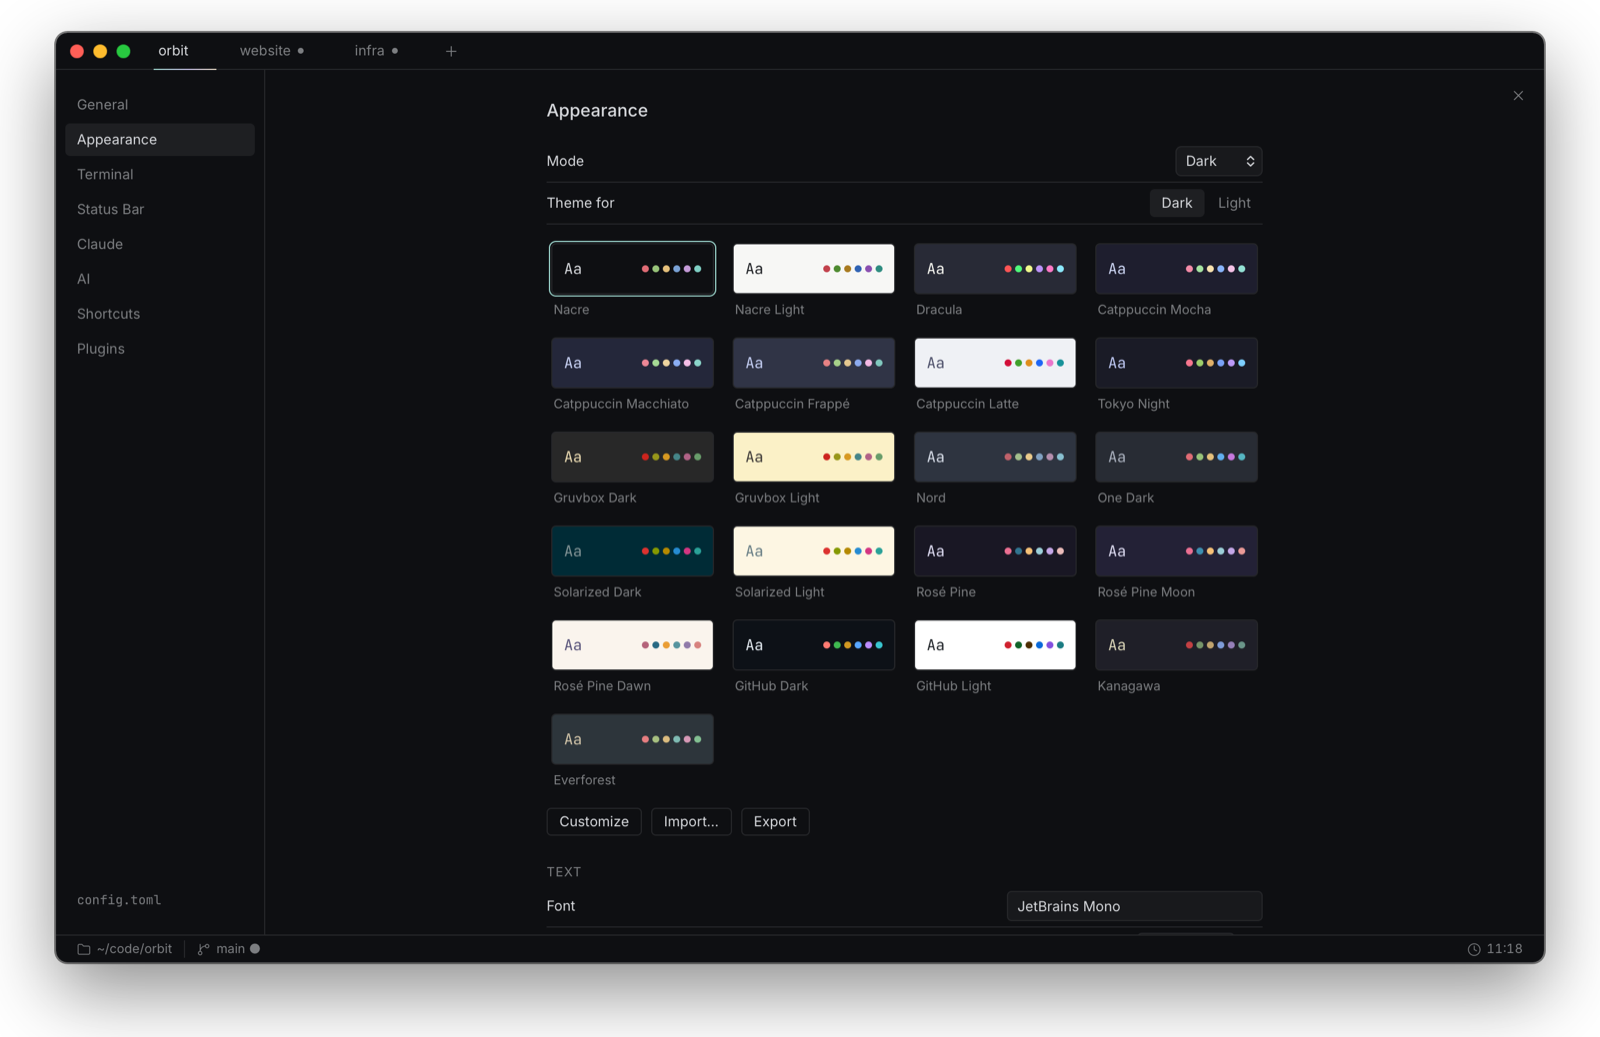
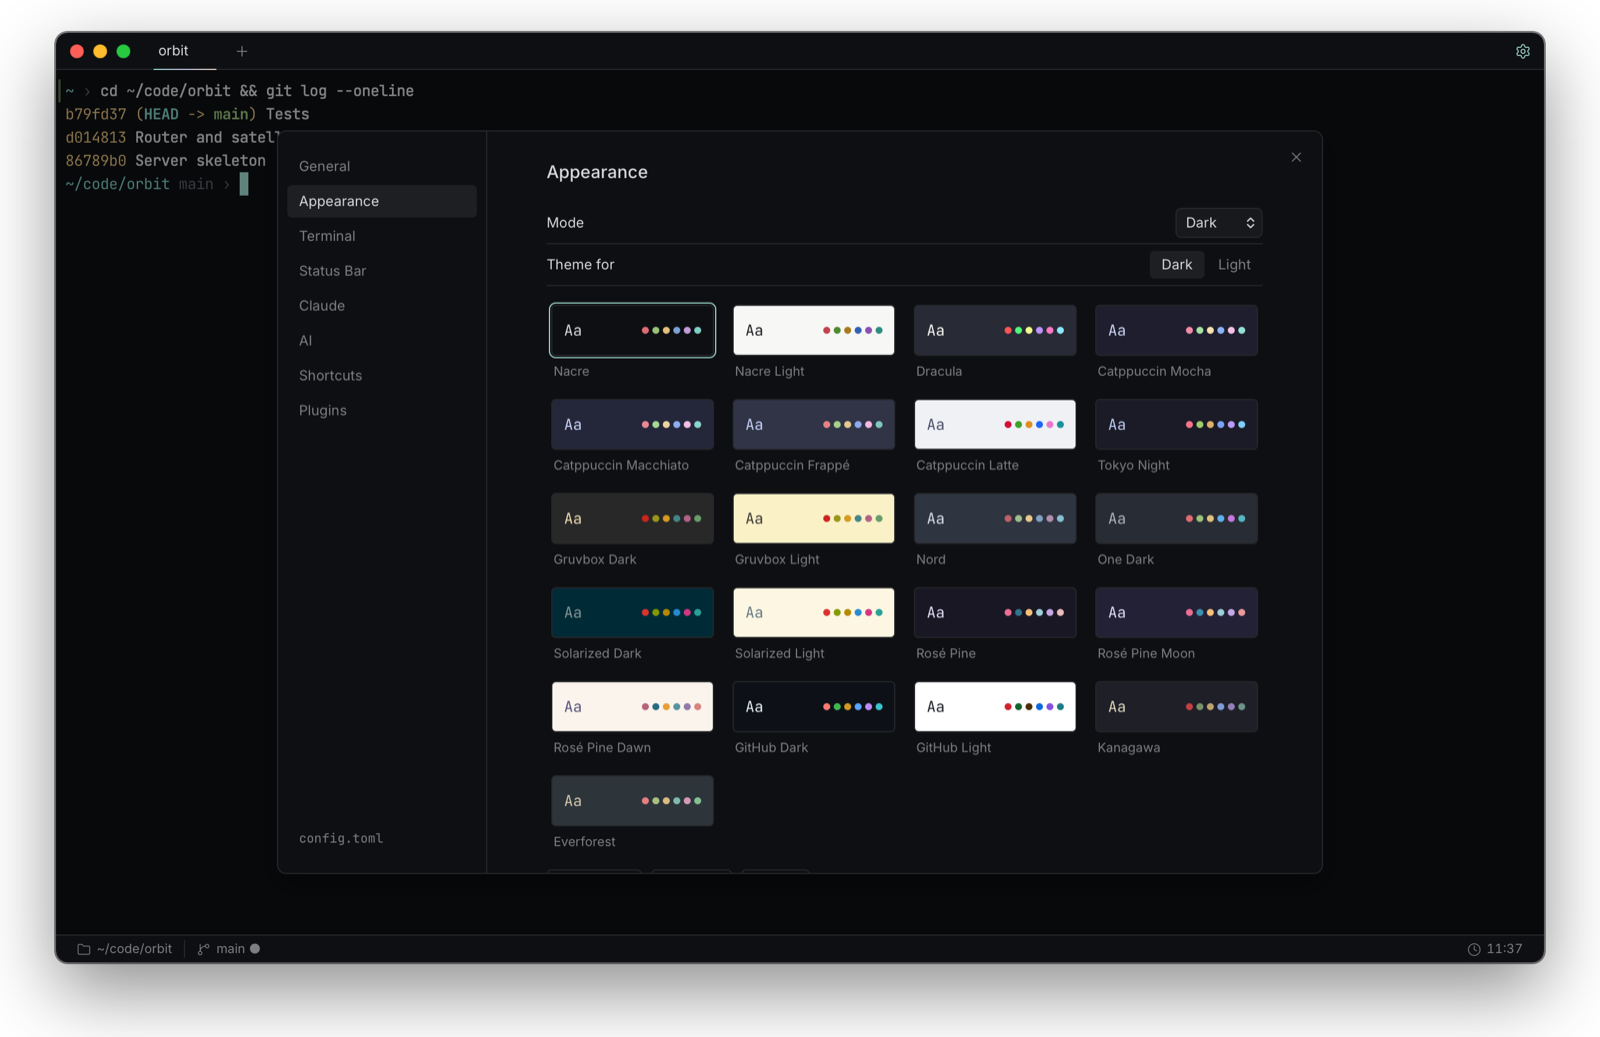
Settings button in the tab bar, settings as a modal

diff --git a/src/settings/Settings.tsx b/src/settings/Settings.tsx
@@ -513,51 +513,56 @@ function PluginsSection() {
   );
 }
 
+export function closeSettings() {
+  useWorkspace.getState().setOverlay(null);
+  const tab = activeTab();
+  if (tab) focusPane(tab.active);
+}
+
 export function Settings() {
   const [section, setSection] = useState<SectionId>("appearance");
   const path = useConfig((s) => s.path);
-  const close = () => {
-    useWorkspace.getState().setOverlay(null);
-    const tab = activeTab();
-    if (tab) focusPane(tab.active);
-  };
+  const close = closeSettings;
   return (
-    <div
-      className="settings"
-      onKeyDown={(e) => {
-        if (e.key === "Escape" && !(e.target instanceof HTMLInputElement)) close();
-      }}
-      tabIndex={-1}
-    >
-      <nav className="settings-nav">
-        {SECTIONS.map((s) => (
-          <button
-            key={s.id}
-            className={section === s.id ? "on" : ""}
-            onClick={() => setSection(s.id)}
-          >
-            {t(s.label)}
+    <div className="scrim settings-scrim" onMouseDown={close}>
+      <div
+        className="settings"
+        onMouseDown={(e) => e.stopPropagation()}
+        onKeyDown={(e) => {
+          if (e.key === "Escape" && !(e.target instanceof HTMLInputElement)) close();
+        }}
+        tabIndex={-1}
+      >
+        <nav className="settings-nav">
+          {SECTIONS.map((s) => (
+            <button
+              key={s.id}
+              className={section === s.id ? "on" : ""}
+              onClick={() => setSection(s.id)}
+            >
+              {t(s.label)}
+            </button>
+          ))}
+          <span className="grow" />
+          <button className="settings-file" onClick={() => path && void openPath(path)}>
+            config.toml
           </button>
-        ))}
-        <span className="grow" />
-        <button className="settings-file" onClick={() => path && void openPath(path)}>
-          config.toml
-        </button>
-      </nav>
-      <div className="settings-body">
-        <button className="icon-btn settings-close" onClick={close}>
-          <X size={14} strokeWidth={1.5} />
-        </button>
-        <div className="settings-page">
-          <h2>{t(SECTIONS.find((s) => s.id === section)!.label)}</h2>
-          {section === "general" && <General />}
-          {section === "appearance" && <Appearance />}
-          {section === "terminal" && <Terminal />}
-          {section === "statusbar" && <StatusBarSection />}
-          {section === "claude" && <ClaudeSection />}
-          {section === "ai" && <AiSection />}
-          {section === "keys" && <KeysSection />}
-          {section === "plugins" && <PluginsSection />}
+        </nav>
+        <div className="settings-body">
+          <button className="icon-btn settings-close" onClick={close}>
+            <X size={14} strokeWidth={1.5} />
+          </button>
+          <div className="settings-page">
+            <h2>{t(SECTIONS.find((s) => s.id === section)!.label)}</h2>
+            {section === "general" && <General />}
+            {section === "appearance" && <Appearance />}
+            {section === "terminal" && <Terminal />}
+            {section === "statusbar" && <StatusBarSection />}
+            {section === "claude" && <ClaudeSection />}
+            {section === "ai" && <AiSection />}
+            {section === "keys" && <KeysSection />}
+            {section === "plugins" && <PluginsSection />}
+          </div>
         </div>
       </div>
     </div>

diff --git a/src/app/TabBar.tsx b/src/app/TabBar.tsx
@@ -1,5 +1,5 @@
 import { useEffect, useRef, useState } from "react";
-import { Pin, Plus, X } from "lucide-react";
+import { Pin, Plus, Settings, X } from "lucide-react";
 import { Menu } from "@tauri-apps/api/menu";
 import { moveTab } from "./moveTab";
 import { type Tab, useWorkspace } from "../store/workspace";
@@ -10,6 +10,7 @@ import { useClaude } from "../claude/store";
 import { allThemes, useConfig } from "../store/config";
 import { tabTitle } from "./titles";
 import * as ops from "./ops";
+import { closeSettings } from "../settings/Settings";
 import "./tabbar.css";
 
 export const TAB_COLORS = ["#E06C75", "#E5C07B", "#98C379", "#7FCFC4", "#7AA2D6", "#C49BD8"];
@@ -18,6 +19,7 @@ export function TabBar({ fullscreen, vertical }: { fullscreen: boolean; vertical
   const width = useConfig((s) => s.config.window.sidebar_width);
   const tabs = useWorkspace((s) => s.tabs);
   const activeTabId = useWorkspace((s) => s.activeTabId);
+  const settingsOpen = useWorkspace((s) => s.overlay?.kind === "settings");
   const listRef = useRef<HTMLDivElement>(null);
   const [drag, setDrag] = useState<{ id: string; dx: number } | null>(null);
   const pos = (ev: { clientX: number; clientY: number }) => (vertical ? ev.clientY : ev.clientX);
@@ -80,6 +82,13 @@ export function TabBar({ fullscreen, vertical }: { fullscreen: boolean; vertical
           <Plus size={14} strokeWidth={1.5} />
         </button>
       </div>
+      <button
+        className={`tab-settings icon-btn${settingsOpen ? " on" : ""}`}
+        title={t("Settings")}
+        onClick={() => (settingsOpen ? closeSettings() : ops.openSettings())}
+      >
+        <Settings size={14} strokeWidth={1.5} />
+      </button>
     </div>
   );
 }

diff --git a/src/settings/settings.css b/src/settings/settings.css
@@ -1,9 +1,18 @@
-.settings {
-  position: absolute;
-  inset: 0;
+.settings-scrim {
   z-index: 25;
+  align-items: center;
+  background: #0006;
+}
+
+.settings {
   display: flex;
+  width: min(900px, calc(100% - 48px));
+  height: min(640px, calc(100% - 48px));
+  border: 1px solid var(--line);
+  border-radius: 8px;
   background: var(--bg);
+  box-shadow: var(--shadow);
+  overflow: hidden;
   outline: none;
   animation: pop var(--fast);
 }

diff --git a/src/app/tabbar.css b/src/app/tabbar.css
@@ -182,6 +182,17 @@ html.quake .tabbar {
   background: linear-gradient(180deg, #9ed8cf, #c8c2e8 55%, #e9dcc6);
 }
 
+.tab-settings {
+  flex: none;
+  align-self: center;
+  margin: 0 8px;
+}
+
+.tabbar.vertical .tab-settings {
+  align-self: flex-start;
+  margin: 8px 0 0 4px;
+}
+
 .tabbar.vertical .tab-new {
   align-self: flex-start;
   margin: 4px 0 0 4px;

diff --git a/PLAN.md b/PLAN.md
@@ -478,4 +478,5 @@ Chaque phase se termine par une app **qui compile, qui se lance et qui marche**.
 - Synchronisation : via dotfiles (symlink ou `git clone` d'un gist) ; pas de synchro gist intégrée à l'app. Un fichier ajouté en symlink n'est suivi qu'après redémarrage.
 - Scrollback sur disque : la sortie des applis plein écran (vim, htop) y apparaît en vrac ; seules les couleurs sont gardées.
 - Position des feux tricolores (12,16) non vérifiée visuellement : les captures WebKit ne montrent pas les contrôles natifs.
+- Releases : secrets `TAURI_SIGNING_PRIVATE_KEY*` absents du dépôt (le workflow Release échouera à la signature) ; tant que le dépôt est privé, l'updater ne peut pas lire `latest.json` sans authentification.
 - Panneau Claude : la todo-list vient de l'outil `TodoWrite`, absent des sessions Claude Code 2.1.310 testées ; la section reste vide. Format de remplacement à vérifier avant de le gérer.
